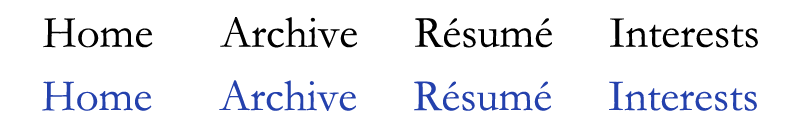
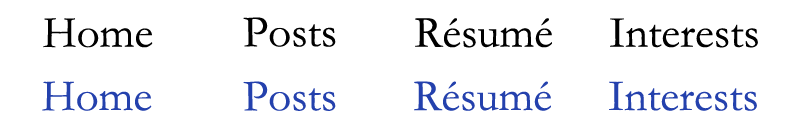
change archive to posts

Changed region(s): [[0.2812, 0.6154, 0.4688, 0.8615], [0.25, 0.1231, 0.4688, 0.3692]]

diff --git a/Posts.html b/Posts.html
@@ -16,7 +16,7 @@ h3 {
 </style>
   <link rel="icon" type="image/vnd.microsoft.icon"
      href="cr_icon.ico" />
-<title>Connor Reed - Archive</title>
+<title>Connor Reed - Posts</title>
 </head>
 
 <body>
@@ -26,7 +26,7 @@ h3 {
 <div id="nav">
 <ul id="navlist">
   <li id="home"><a href="index.html"></a></li>
-  <li id="archive"><a href="cr_archive.html"></a></li>
+  <li id="posts"><a href="Posts.html"></a></li>
   <li id="resume"><a href="Connor_Reed_Resume.pdf"></a></li>  <!-- Resume is hard linked to /Users/connordog/Dropbox/Desktop_Files/Work_Things/_Resumes/Connor_Reed_Resume/Connor_Reed_Resume.pdf -->
   <li id="interests"><a href="cr_interests.html"></a></li>
 </ul>

diff --git a/cr_styles.css b/cr_styles.css
@@ -10,9 +10,9 @@ top:2px;}
 #home{background:url('i/links.png') 0 0;}
 #home a:hover{background: url('i/links.png') 0 -65px;}
 
-#archive{left:280px;width:200px;}
-#archive{background:url('i/links.png') -200px 0;}
-#archive a:hover{background: url('i/links.png') -200px -65px;}
+#posts{left:280px;width:200px;}
+#posts{background:url('i/links.png') -200px 0;}
+#posts a:hover{background: url('i/links.png') -200px -65px;}
 
 #resume{left:510px;width:170px;}
 #resume{background:url('i/links.png') -400px 0;}

diff --git a/Posts/2018_nba_draft_board.html b/Posts/2018_nba_draft_board.html
@@ -27,7 +27,7 @@ h3 {
 <div id="nav">
 <ul id="navlist">
   <li id="home"><a href="../index.html"></a></li>
-  <li id="archive"><a href="../cr_archive.html"></a></li>
+  <li id="posts"><a href="../Posts.html"></a></li>
   <li id="resume"><a href="../Connor_Reed_Resume.pdf"></a></li>  <!-- Resume is hard linked to /Users/connordog/Dropbox/Desktop_Files/Work_Things/_Resumes/Connor_Reed_Resume/Connor_Reed_Resume.pdf -->
   <li id="interests"><a href="../cr_interests.html"></a></li>
 </ul>

diff --git a/Posts/apartment_hunting.html b/Posts/apartment_hunting.html
@@ -27,7 +27,7 @@ h3 {
 <div id="nav">
 <ul id="navlist">
   <li id="home"><a href="../index.html"></a></li>
-  <li id="archive"><a href="../cr_archive.html"></a></li>
+  <li id="posts"><a href="../Posts.html"></a></li>
   <li id="resume"><a href="../Connor_Reed_Resume.pdf"></a></li>  <!-- Resume is hard linked to /Users/connordog/Dropbox/Desktop_Files/Work_Things/_Resumes/Connor_Reed_Resume/Connor_Reed_Resume.pdf -->
   <li id="interests"><a href="../cr_interests.html"></a></li>
 </ul>

diff --git a/Posts/media_lists.html b/Posts/media_lists.html
@@ -27,7 +27,7 @@ h3 {
 <div id="nav">
 <ul id="navlist">
   <li id="home"><a href="../index.html"></a></li>
-  <li id="archive"><a href="../cr_archive.html"></a></li>
+  <li id="posts"><a href="../Posts.html"></a></li>
   <li id="resume"><a href="../Connor_Reed_Resume.pdf"></a></li>  <!-- Resume is hard linked to /Users/connordog/Dropbox/Desktop_Files/Work_Things/_Resumes/Connor_Reed_Resume/Connor_Reed_Resume.pdf -->
   <li id="interests"><a href="../cr_interests.html"></a></li>
 </ul>

diff --git a/Posts/mlb_prospect_analysis.html b/Posts/mlb_prospect_analysis.html
@@ -27,7 +27,7 @@ h3 {
 <div id="nav">
 <ul id="navlist">
   <li id="home"><a href="../index.html"></a></li>
-  <li id="archive"><a href="../cr_archive.html"></a></li>
+  <li id="posts"><a href="../Posts.html"></a></li>
   <li id="resume"><a href="../Connor_Reed_Resume.pdf"></a></li>  <!-- Resume is hard linked to /Users/connordog/Dropbox/Desktop_Files/Work_Things/_Resumes/Connor_Reed_Resume/Connor_Reed_Resume.pdf -->
   <li id="interests"><a href="../cr_interests.html"></a></li>
 </ul>

diff --git a/Posts/nba_shot_charts.html b/Posts/nba_shot_charts.html
@@ -27,7 +27,7 @@ h3 {
 <div id="nav">
 <ul id="navlist">
   <li id="home"><a href="../index.html"></a></li>
-  <li id="archive"><a href="../cr_archive.html"></a></li>
+  <li id="posts"><a href="../Posts.html"></a></li>
   <li id="resume"><a href="../Connor_Reed_Resume.pdf"></a></li>  <!-- Resume is hard linked to /Users/connordog/Dropbox/Desktop_Files/Work_Things/_Resumes/Connor_Reed_Resume/Connor_Reed_Resume.pdf -->
   <li id="interests"><a href="../cr_interests.html"></a></li>
 </ul>

diff --git a/Posts/nba_shot_charts_2018update.html b/Posts/nba_shot_charts_2018update.html
@@ -27,7 +27,7 @@ h3 {
 <div id="nav">
 <ul id="navlist">
   <li id="home"><a href="../index.html"></a></li>
-  <li id="archive"><a href="../cr_archive.html"></a></li>
+  <li id="posts"><a href="../Posts.html"></a></li>
   <li id="resume"><a href="../Connor_Reed_Resume.pdf"></a></li>  <!-- Resume is hard linked to /Users/connordog/Dropbox/Desktop_Files/Work_Things/_Resumes/Connor_Reed_Resume/Connor_Reed_Resume.pdf -->
   <li id="interests"><a href="../cr_interests.html"></a></li>
 </ul>

diff --git a/Posts/nhl_dfs.html b/Posts/nhl_dfs.html
@@ -27,7 +27,7 @@ h3 {
 <div id="nav">
 <ul id="navlist">
   <li id="home"><a href="../index.html"></a></li>
-  <li id="archive"><a href="../cr_archive.html"></a></li>
+  <li id="posts"><a href="../Posts.html"></a></li>
   <li id="resume"><a href="../Connor_Reed_Resume.pdf"></a></li>  <!-- Resume is hard linked to /Users/connordog/Dropbox/Desktop_Files/Work_Things/_Resumes/Connor_Reed_Resume/Connor_Reed_Resume.pdf -->
   <li id="interests"><a href="../cr_interests.html"></a></li>
 </ul>

diff --git a/Posts/nhl_xgoals.html b/Posts/nhl_xgoals.html
@@ -27,7 +27,7 @@ h3 {
 <div id="nav">
 <ul id="navlist">
   <li id="home"><a href="../index.html"></a></li>
-  <li id="archive"><a href="../cr_archive.html"></a></li>
+  <li id="posts"><a href="../Posts.html"></a></li>
   <li id="resume"><a href="../Connor_Reed_Resume.pdf"></a></li>  <!-- Resume is hard linked to /Users/connordog/Dropbox/Desktop_Files/Work_Things/_Resumes/Connor_Reed_Resume/Connor_Reed_Resume.pdf -->
   <li id="interests"><a href="../cr_interests.html"></a></li>
 </ul>

diff --git a/Posts/python_war.html b/Posts/python_war.html
@@ -27,7 +27,7 @@ h3 {
 <div id="nav">
 <ul id="navlist">
   <li id="home"><a href="../index.html"></a></li>
-  <li id="archive"><a href="../cr_archive.html"></a></li>
+  <li id="posts"><a href="../Posts.html"></a></li>
   <li id="resume"><a href="../Connor_Reed_Resume.pdf"></a></li>  <!-- Resume is hard linked to /Users/connordog/Dropbox/Desktop_Files/Work_Things/_Resumes/Connor_Reed_Resume/Connor_Reed_Resume.pdf -->
   <li id="interests"><a href="../cr_interests.html"></a></li>
 </ul>

diff --git a/Posts/sim_league_leaderboards.html b/Posts/sim_league_leaderboards.html
@@ -27,7 +27,7 @@ h3 {
 <div id="nav">
 <ul id="navlist">
   <li id="home"><a href="../index.html"></a></li>
-  <li id="archive"><a href="../cr_archive.html"></a></li>
+  <li id="posts"><a href="../Posts.html"></a></li>
   <li id="resume"><a href="../Connor_Reed_Resume.pdf"></a></li>  <!-- Resume is hard linked to /Users/connordog/Dropbox/Desktop_Files/Work_Things/_Resumes/Connor_Reed_Resume/Connor_Reed_Resume.pdf -->
   <li id="interests"><a href="../cr_interests.html"></a></li>
 </ul>
